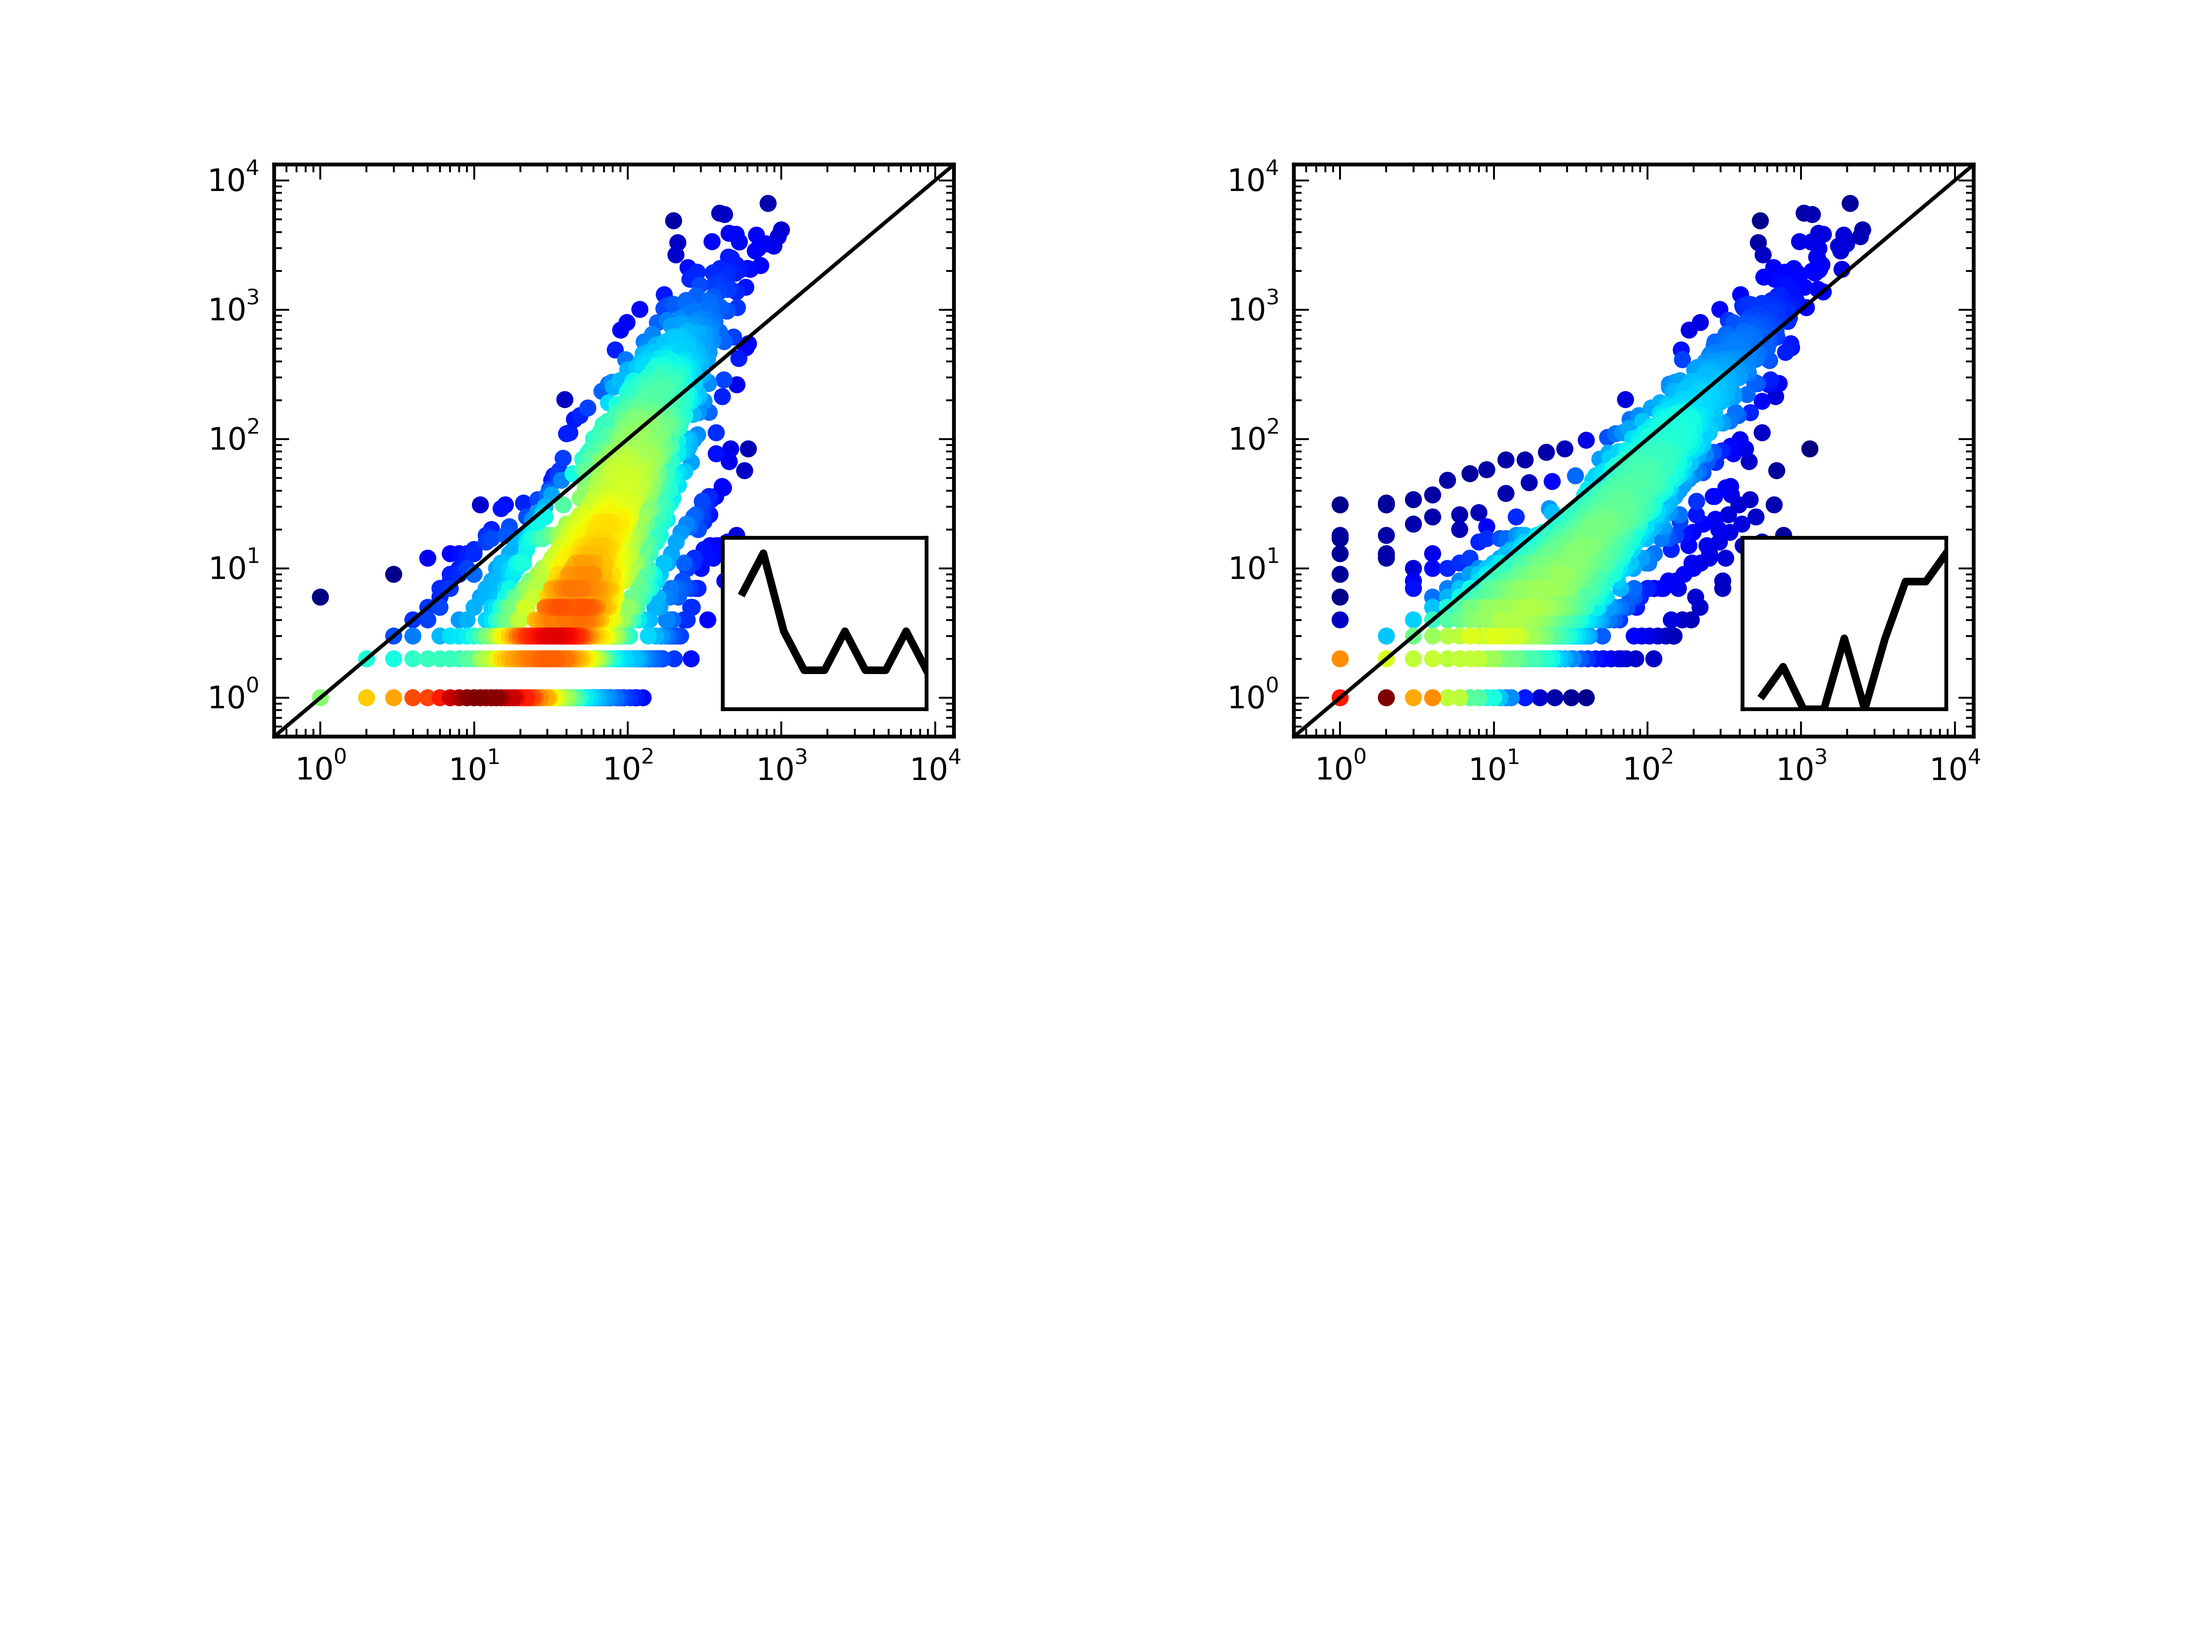
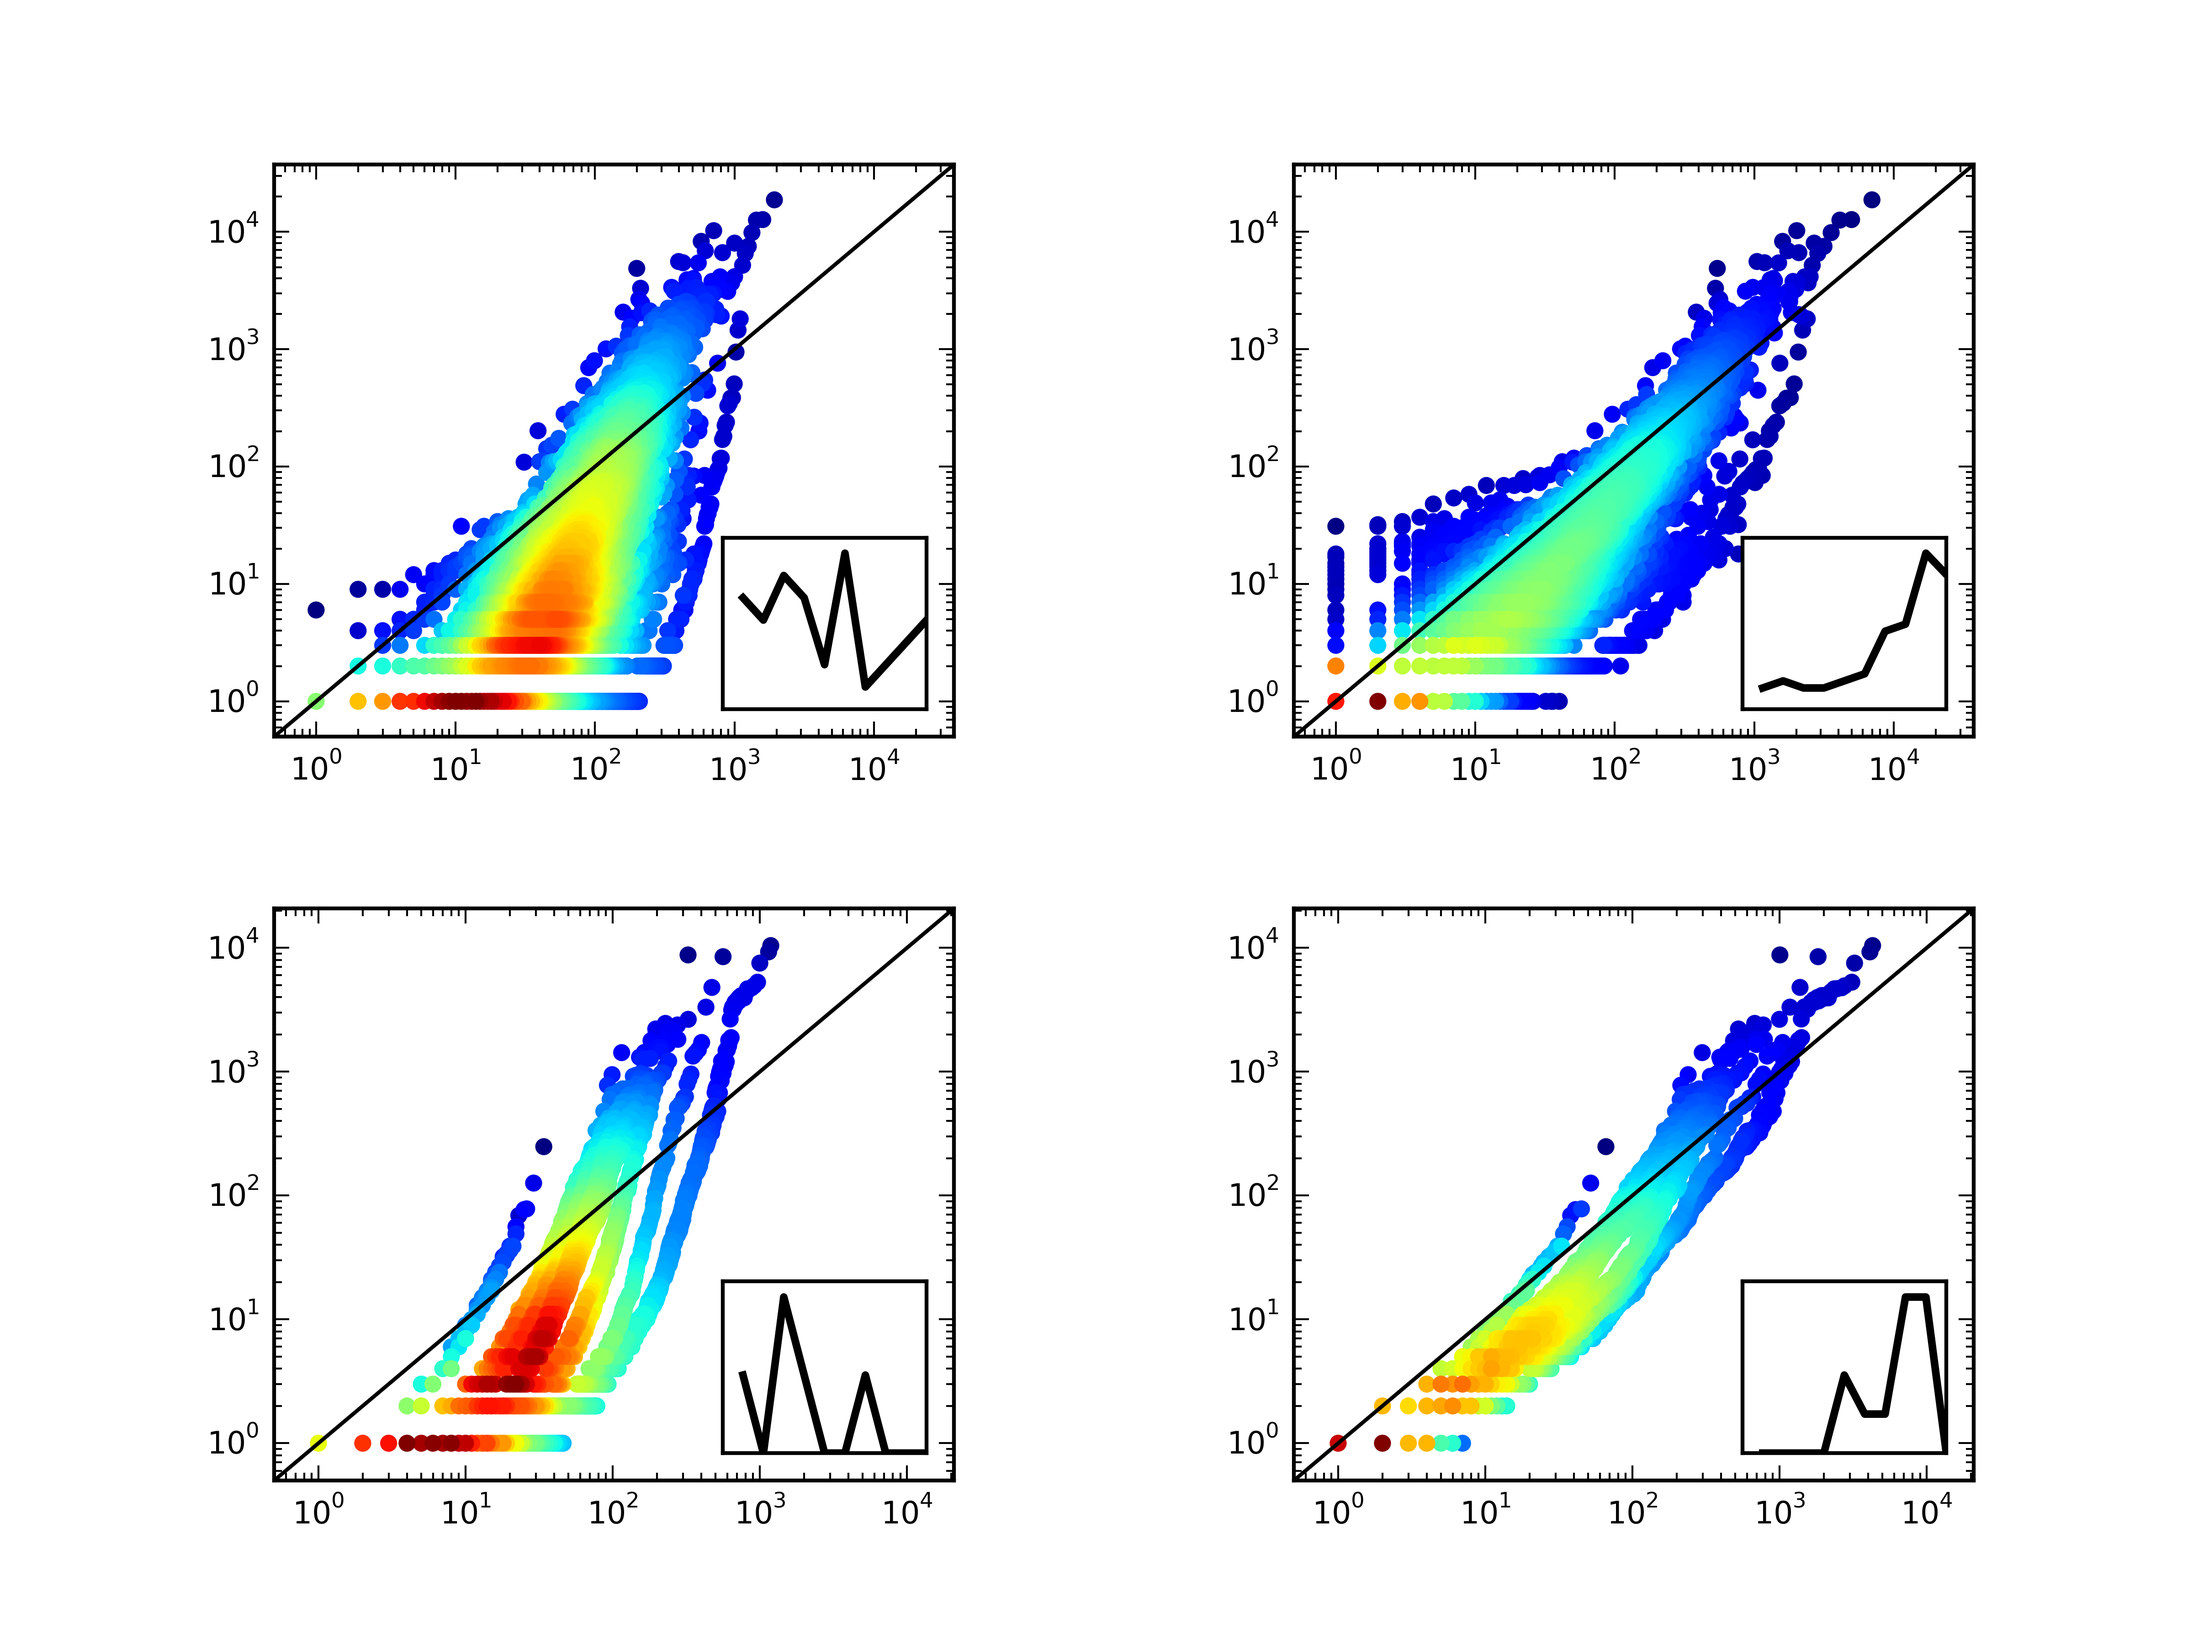
Modified python code, 1st take on figures

diff --git a/Python/generate_figs_regtest.py b/Python/generate_figs_regtest.py
@@ -82,7 +82,7 @@ def generate_obs_pred_data(datasets, methods):
 
 def import_obs_pred_data(input_filename):   # TAKEN FROM THE mete_sads.py script used for White et al. (2012)
     data = np.genfromtxt(input_filename, dtype = "f8,f8,f8", names = ['site','obs','pred'], delimiter = " ")
-    #test = data[0:5000]
+    #test = data[0:10000]
     #return test
     return data
 
@@ -128,7 +128,7 @@ def plot_obs_pred_sad(methods, datasets, data_dir= mydir, radius=2): # TAKEN FRO
 
     #xs = [[60,1], [100,1], [20,1], [60,1], [40,1], [200,1], [800,1.5], [200,1.5]]
     #rs = ['0.93','0.77','0.84','0.81','0.78','0.83','0.58','0.76']
-
+    count = 0
     for i, dataset in enumerate(datasets):
         for j, method in enumerate(methods):
 
@@ -137,16 +137,15 @@ def plot_obs_pred_sad(methods, datasets, data_dir= mydir, radius=2): # TAKEN FRO
             print method, dataset
             obs_pred_data = import_obs_pred_data(data_dir + 'ObsPred/' + method+'_'+dataset+'_obs_pred.txt')
             site = ((obs_pred_data["site"]))
-            "only 1st 100 sites"
+            #"only 1st 100 sites"
             obs = ((obs_pred_data["obs"]))
             pred = ((obs_pred_data["pred"]))
-
             axis_min = 0.5 * min(obs)
             axis_max = 2 * max(obs)
-            ax = fig.add_subplot(2, 2, j+1)
+            ax = fig.add_subplot(3, 2, count+1)
 
             macroecotools.plot_color_by_pt_dens(pred, obs, radius, loglog=1,
-                            plot_obj=plt.subplot(2,2,j+1))
+                            plot_obj=plt.subplot(3,2,count+1))
 
             plt.plot([axis_min, axis_max],[axis_min, axis_max], 'k-')
             plt.xlim(axis_min, axis_max)
@@ -158,15 +157,15 @@ def plot_obs_pred_sad(methods, datasets, data_dir= mydir, radius=2): # TAKEN FRO
             #plt.text(xs[0][1],xs[0][0],dataset+'\n'+rs[0],fontsize=8)
             #xs.pop(0)
             #rs.pop(0)
-
             # Create inset for histogram of site level r^2 values
             axins = inset_axes(ax, width="30%", height="30%", loc=4)
             hist_mete_r2(site, np.log10(obs), np.log10(pred))
             plt.setp(axins, xticks=[], yticks=[])
-
+            count += 1
     plt.text(-8,-80,'Rank-abundance at the centre of the feasible set',fontsize=10)
     plt.text(-8.5,500,'Observed rank-abundance',rotation='90',fontsize=10)
     plt.savefig('obs_pred_plots.png', dpi=600)#, bbox_inches = 'tight')#, pad_inches=0)
+    plt.close()
 
 
 def import_NSR2_data(input_filename):   # TAKEN FROM THE mete_sads.py script used for White et al. (2012)
@@ -180,9 +179,24 @@ def NSR2_regression(methods, datasets, data_dir= mydir):
     fig = plt.figure()
     for i, dataset in enumerate(datasets):
         count  = 0
+        test_count = 0
         for k, param in enumerate(params):
             for j, method in enumerate(methods):
                 nsr2_data = import_NSR2_data(data_dir + 'NSR2/' + method+'_'+dataset+'_NSR2.txt')
+
+                #nsr2_data[[~np.isnan(nsr2_data).any(axis=1)]]
+                #nsr2_data[~np.isinf(nsr2_data).any(axis=1)]
+                #nsr2_data[~np.isnan(nsr2_data).any(1)]
+                list = ['nan', 'NAN', '-inf', 'inf']
+                #for x in nsr2_data:
+                #    print type(x)
+                #    value = str(x[3])
+
+                #if np.isinf(x[3]) == True:
+                #    print "infinity"
+                mask = np.all(np.isinf(nsr2_data), axis=1)
+
+
                 y = ((nsr2_data["R2"]))
                 print method, dataset, param
                 ax = fig.add_subplot(2, 3, count+1)
@@ -192,13 +206,17 @@ def NSR2_regression(methods, datasets, data_dir= mydir):
                     N_count = ((nsr2_data["N"]))
                     S_count = ((nsr2_data["S"]))
                     x = np.divide(N_count, S_count)
+                    x = np.log10(x)
+
                 #elif str(n_or_s).capitalize() == 'S'
                 #x = ((nsr2_data["N"]))
                 macroecotools.plot_color_by_pt_dens(x, y, 0.1, loglog=0,
                                 plot_obj=plt.subplot(3, 2, count+1))
                 slope, intercept, r_value, p_value, std_err = stats.linregress(x,y)
+                #if param == 'N/S':
+                #    plt.xlim(np.amin(x), 1000)
+                #else:
                 plt.xlim(np.amin(x), np.amax(x))
-                print len(x)
                 plt.ylim(-1,1)
 
                 predict_y = intercept + slope * x
@@ -212,21 +230,28 @@ def NSR2_regression(methods, datasets, data_dir= mydir):
                 #plt.text(-8.5,500,'Observed rank-abundance',rotation='90',fontsize=10)
                 plt.xlabel(param)
                 plt.ylabel(r'$r^{2}$',fontsize=16)
-                plt.text(1.35, 1.5, r'$p$'+ ' = '+str(round(p_value,2)), fontsize=12, color='Crimson')
+                r_2 = "r2 =" + str(round(r_value,2))
+                p_s = "p =" + str(round(p_value,2))
+                #plt.text(0, 1, r'$p$'+ ' = '+str(round(p_value,2)), fontsize=12)
+                #plt.text(0, 1, r'$r_{2}$'+ ' = '+str(round(r_value,2)), fontsize=12)
+                #ax.text(0.05, 0.95, textstr, transform=ax.transAxes, fontsize=14,
+    #verticalalignment='top', bbox=props)
                 leg = plt.legend(loc=1,prop={'size':10})
-                leg.draw_frame(False)
+                #leg.draw_frame(False)
+                #plt.legend(loc='upper left')
                 print r_value, p_value
                 count += 1
         plt.tight_layout()
-        plt.savefig('testNvR2.png')
+        fig_name = 'NSR2_GeomMete' + str(dataset) + '.png'
+        plt.savefig(fig_name)
         #plt.xscale()
         plt.close()
 
 methods = ['geom', 'mete']
 #methods = ['mete']
-datasets = ['HMP']
+datasets = ['HMP', 'EMPclosed', 'EMPopen']
 #datasets = ['EMPclosed']
 params = ['N','S', 'N/S']
 #generate_obs_pred_data(datasets, methods)
-#plot_obs_pred_sad(methods, datasets)
-NSR2_regression(methods, datasets, data_dir= mydir)
+plot_obs_pred_sad(methods, datasets)
+#NSR2_regression(methods, datasets, data_dir= mydir)
